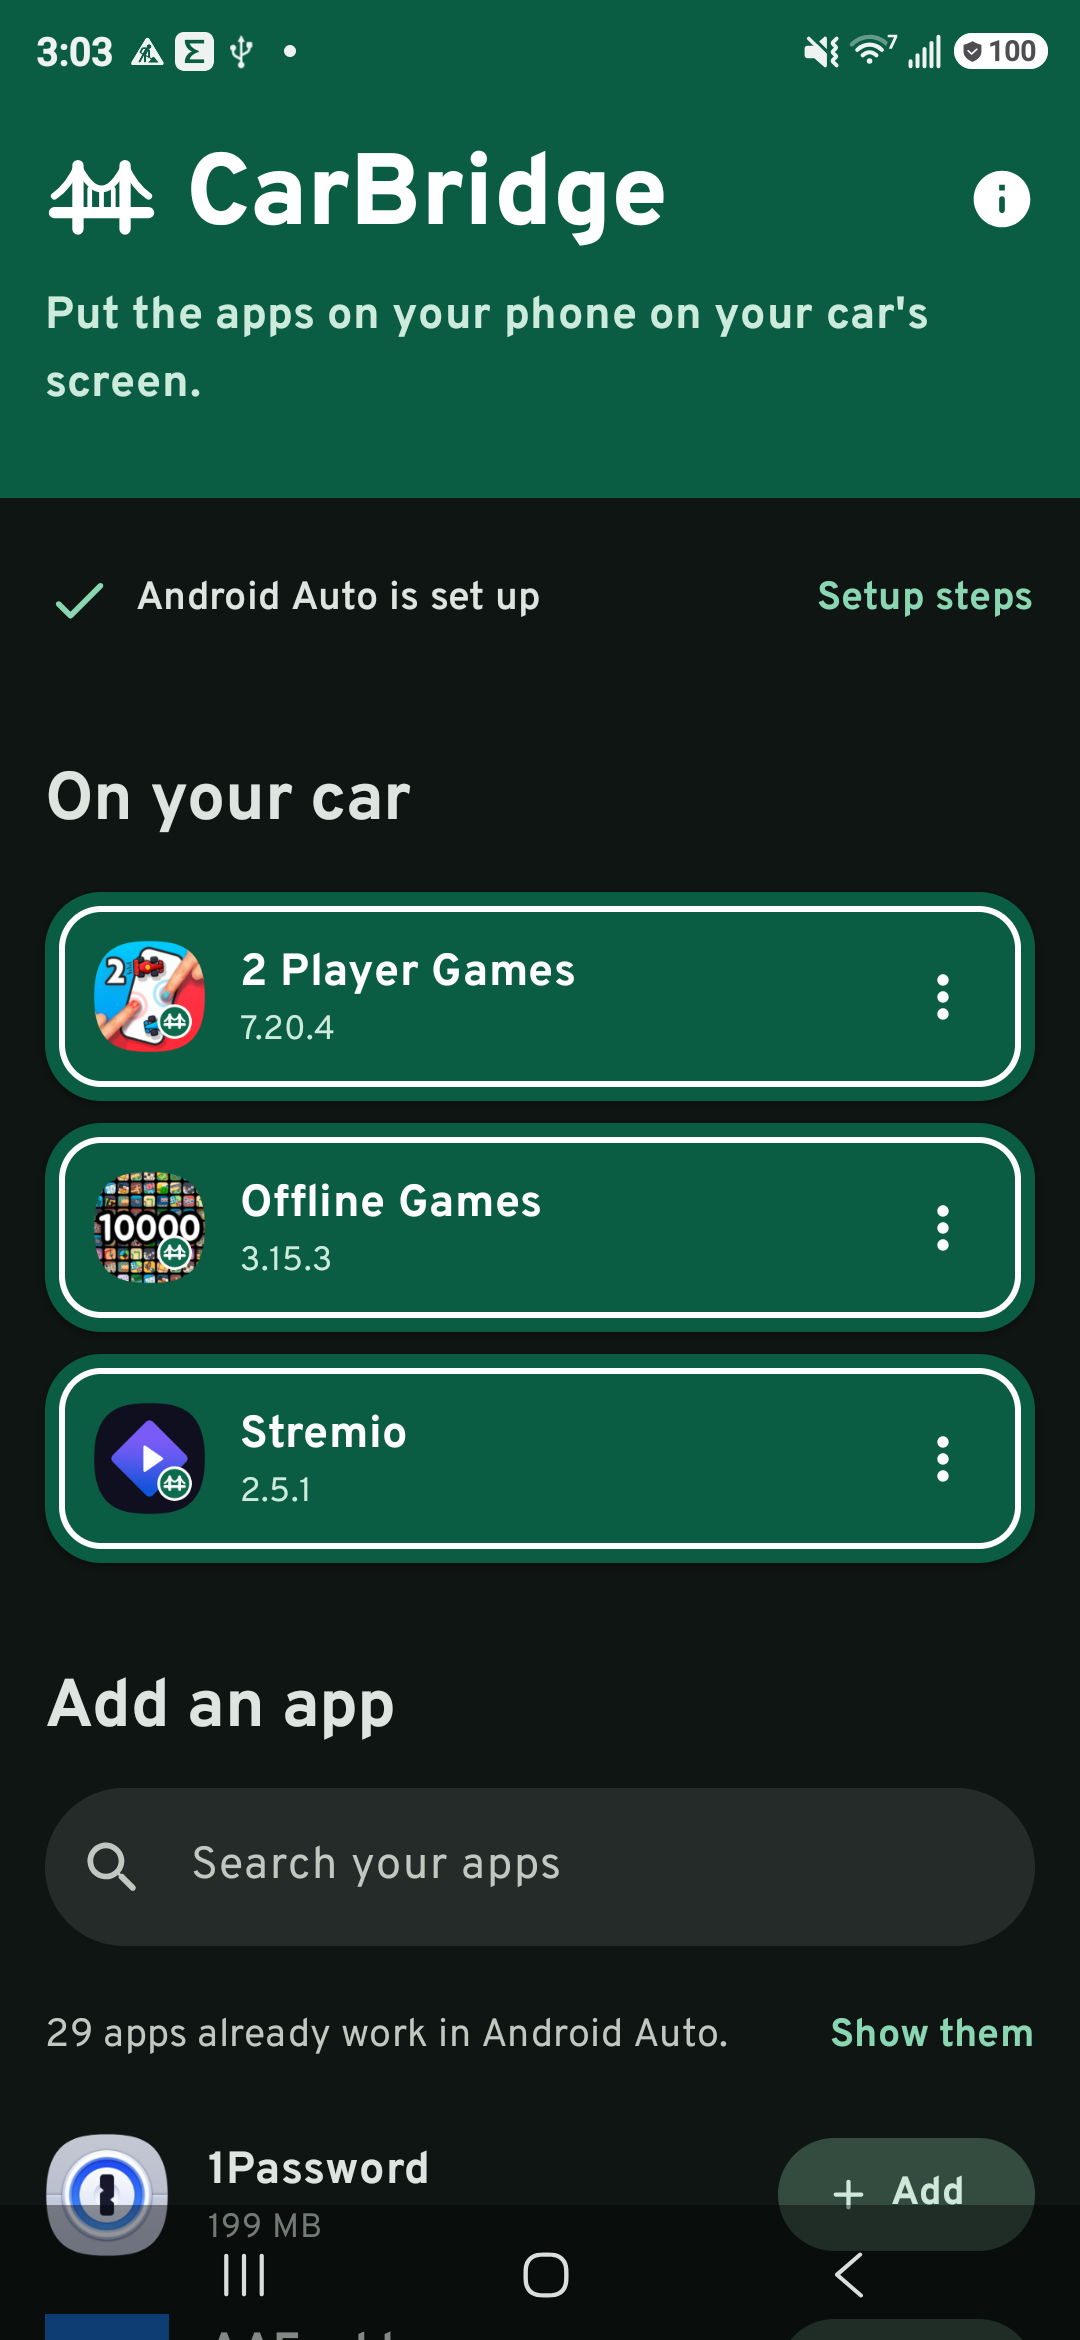
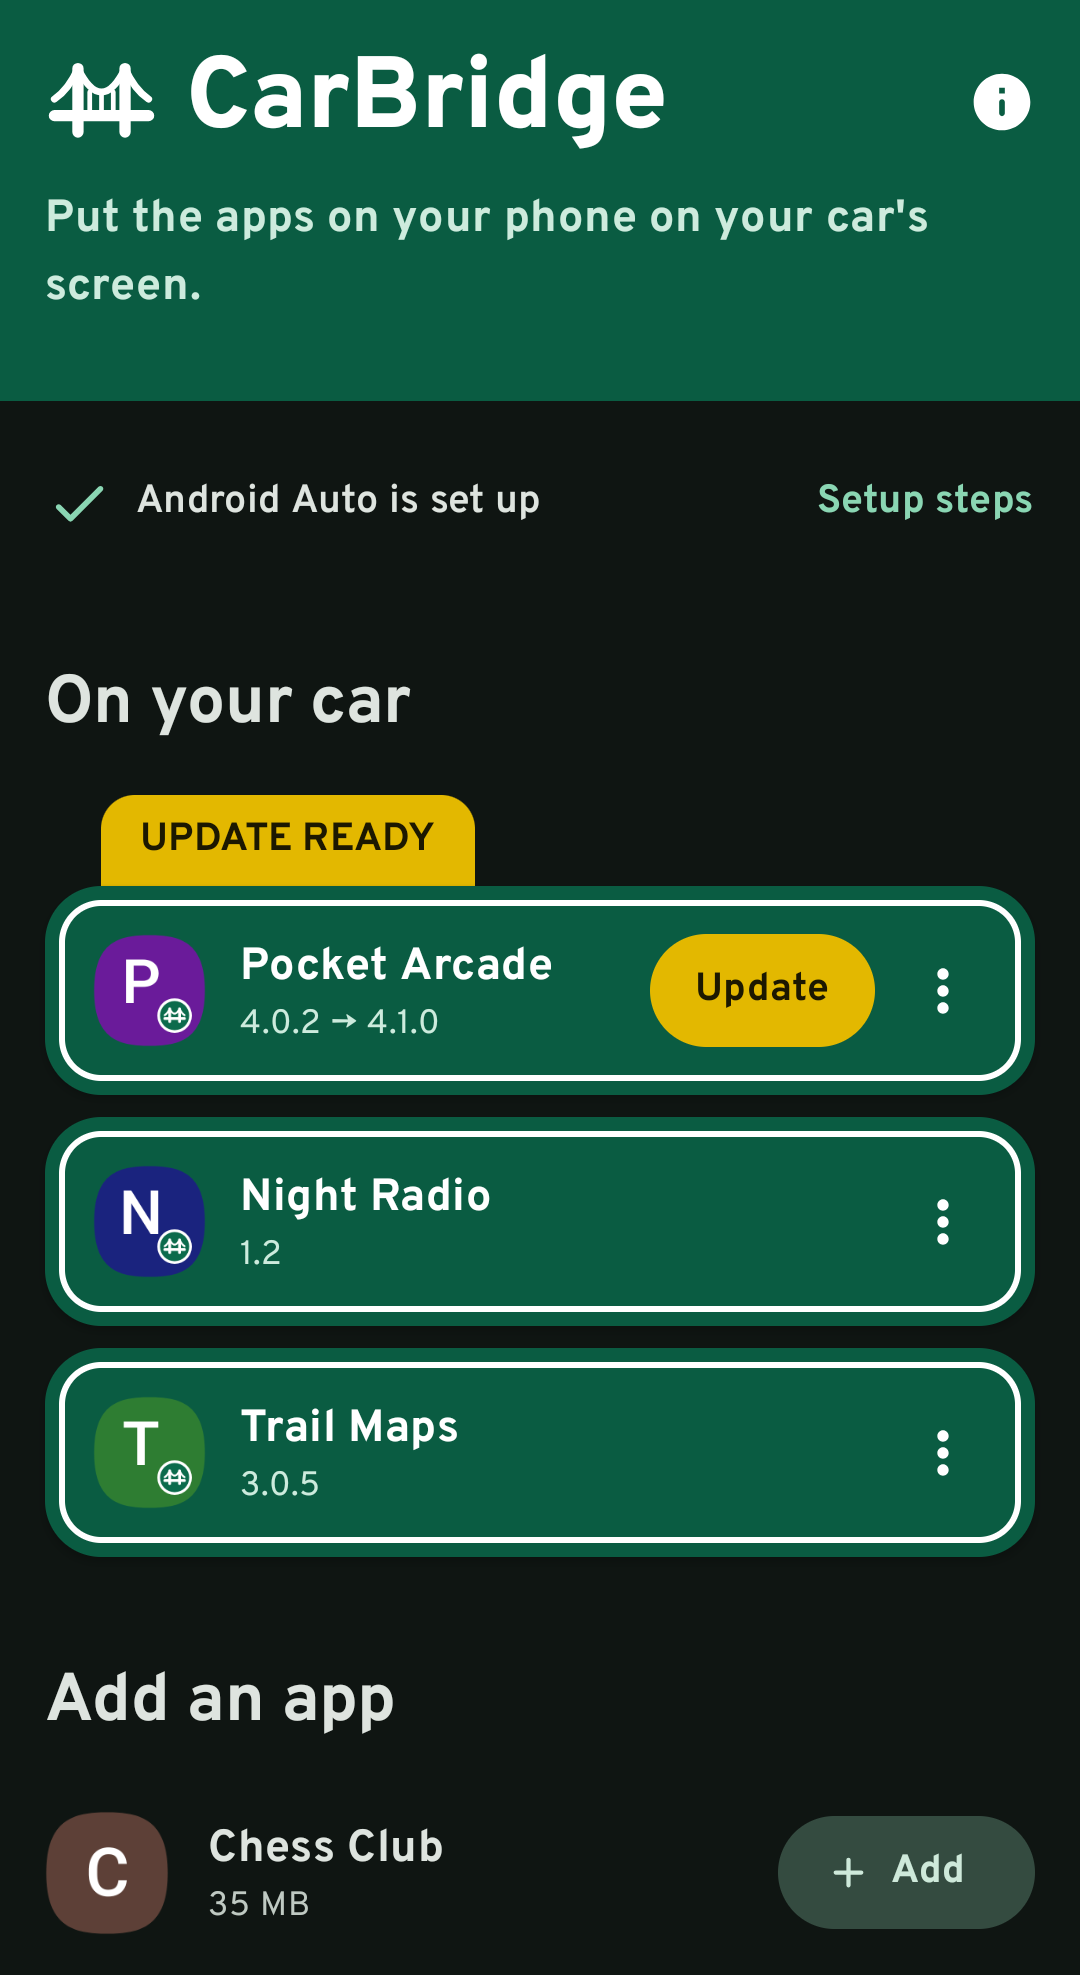
docs: use sample apps for the store screenshot
A debug-only screen renders the home screen with made-up apps, so the
listing doesn't show anyone's installed apps or status bar. Debug builds
get an .debug app ID to install next to the release build.

diff --git a/patcher/src/debug/java/org/carbridge/ScreenshotActivity.kt b/patcher/src/debug/java/org/carbridge/ScreenshotActivity.kt
@@ -1,0 +1,103 @@
+package org.carbridge
+
+import android.content.pm.ApplicationInfo
+import android.graphics.Bitmap
+import android.graphics.Canvas
+import android.graphics.Color
+import android.graphics.Paint
+import android.graphics.Typeface
+import android.graphics.drawable.AdaptiveIconDrawable
+import android.graphics.drawable.BitmapDrawable
+import android.graphics.drawable.ColorDrawable
+import android.graphics.drawable.Drawable
+import android.os.Bundle
+import androidx.activity.ComponentActivity
+import androidx.activity.SystemBarStyle
+import androidx.activity.compose.setContent
+import androidx.activity.enableEdgeToEdge
+import androidx.compose.ui.graphics.ImageBitmap
+import androidx.compose.ui.graphics.asImageBitmap
+import androidx.lifecycle.ViewModelProvider
+import org.carbridge.patch.IconBadger
+import org.carbridge.ui.CarBridgeTheme
+import org.carbridge.ui.HomeActions
+import org.carbridge.ui.HomeScreen
+
+/** Shows the home screen with made-up apps, so store screenshots don't expose anyone's phone. */
+class ScreenshotActivity : ComponentActivity() {
+    override fun onCreate(savedInstanceState: Bundle?) {
+        enableEdgeToEdge(statusBarStyle = SystemBarStyle.dark(Color.TRANSPARENT))
+        super.onCreate(savedInstanceState)
+        val model = ViewModelProvider(this)[HomeModel::class.java]
+        model.showSample(sampleCatalog())
+        val none = HomeActions({}, {}, {}, {}, {}, {}, {}, {}, { _, _ -> }, {})
+        setContent { CarBridgeTheme { HomeScreen(model, none) } }
+    }
+
+    private fun sampleCatalog(): Catalog {
+        val trail = source("Trail Maps", "T", 0xFF2E7D32, 48)
+        val arcade = source("Pocket Arcade", "P", 0xFF6A1B9A, 61)
+        val radio = source("Night Radio", "N", 0xFF1A237E, 23)
+        val copies = listOf(
+            copy(arcade, "P", 0xFF6A1B9A, Version(40, "4.0.2"), Version(41, "4.1.0"), portrait = true),
+            copy(radio, "N", 0xFF1A237E, Version(12, "1.2"), Version(12, "1.2")),
+            copy(trail, "T", 0xFF2E7D32, Version(305, "3.0.5"), Version(305, "3.0.5")),
+        )
+        val available = listOf(
+            source("Chess Club", "C", 0xFF5D4037, 35),
+            source("Recipe Box", "R", 0xFFE65100, 19),
+            source("Sky Watch", "S", 0xFF0277BD, 27),
+            source("Word Garden", "W", 0xFF00796B, 14),
+            source("Zen Puzzles", "Z", 0xFFAD1457, 52),
+        )
+        return Catalog(copies, available)
+    }
+
+    private fun source(label: String, letter: String, color: Long, mb: Long) = SourceApp(
+        label = label,
+        info = ApplicationInfo().apply { packageName = "sample." + label.lowercase().replace(' ', '.') },
+        icon = icon(letter, color, badged = false),
+        sizeBytes = mb * 1_000_000,
+        hasAndroidAuto = false,
+        caution = null,
+    )
+
+    private fun copy(original: SourceApp, letter: String, color: Long, version: Version, originalVersion: Version, portrait: Boolean = false) =
+        CarCopy(
+            label = original.label,
+            packageName = original.info.packageName + ".car",
+            icon = icon(letter, color, badged = true),
+            original = original,
+            version = version,
+            originalVersion = originalVersion,
+            portraitLocked = portrait,
+            fillsScreen = true,
+        )
+
+    private fun icon(letter: String, color: Long, badged: Boolean): ImageBitmap {
+        val layer = Bitmap.createBitmap(LAYER, LAYER, Bitmap.Config.ARGB_8888)
+        Canvas(layer).apply {
+            drawColor(color.toInt())
+            val paint = Paint(Paint.ANTI_ALIAS_FLAG).apply {
+                this.color = Color.WHITE
+                textSize = LAYER * 0.36f
+                typeface = Typeface.create(Typeface.DEFAULT, Typeface.BOLD)
+                textAlign = Paint.Align.CENTER
+            }
+            // Badged icons nudge the letter up-left so the badge doesn't cover it
+            val center = if (badged) LAYER * 0.45f else LAYER / 2f
+            drawText(letter, center, center - (paint.ascent() + paint.descent()) / 2, paint)
+        }
+        val foreground: Drawable = if (badged) BitmapDrawable(resources, IconBadger.badge()) else ColorDrawable(Color.TRANSPARENT)
+        val drawable = AdaptiveIconDrawable(BitmapDrawable(resources, layer), foreground)
+        val out = Bitmap.createBitmap(ICON_PX, ICON_PX, Bitmap.Config.ARGB_8888)
+        drawable.setBounds(0, 0, ICON_PX, ICON_PX)
+        drawable.draw(Canvas(out))
+        return out.asImageBitmap()
+    }
+
+    private companion object {
+        const val LAYER = 432
+        const val ICON_PX = 144
+    }
+}

diff --git a/patcher/src/main/java/org/carbridge/HomeModel.kt b/patcher/src/main/java/org/carbridge/HomeModel.kt
@@ -100,7 +100,16 @@ class HomeModel(app: Application) : AndroidViewModel(app) {
         next?.let { add(it, update = true) }
     }
 
+    /** Fixed sample data for store screenshots; never set in normal use. */
+    private var sample: Catalog? = null
+
+    fun showSample(catalog: Catalog) {
+        sample = catalog
+        refresh()
+    }
+
     fun refresh() {
+        sample?.let { setup = Setup(canInstall = true, developerMode = true, unknownSources = true); catalog = it; return }
         setup = readSetup()
         viewModelScope.launch {
             catalog = withContext(Dispatchers.IO) { AppCatalog.load(getApplication(), ::fillsScreen) }

diff --git a/patcher/src/main/java/org/carbridge/patch/IconBadger.kt b/patcher/src/main/java/org/carbridge/patch/IconBadger.kt
@@ -42,7 +42,7 @@ object IconBadger {
     }
 
     /** White-ringed green disc with the bridge mark, inside the 66dp safe zone's lower right. */
-    private fun badge(): Bitmap {
+    internal fun badge(): Bitmap {
         val bitmap = Bitmap.createBitmap(SIZE, SIZE, Bitmap.Config.ARGB_8888)
         val canvas = Canvas(bitmap)
         val paint = Paint(Paint.ANTI_ALIAS_FLAG)

diff --git a/README.md b/README.md
@@ -148,7 +148,12 @@ gh secret set CARBRIDGE_STORE_PASSWORD && gh secret set CARBRIDGE_KEY_ALIAS && g
 ```
 
 Store listing text, icon and screenshots for IzzyOnDroid and F-Droid clients are in
-`fastlane/metadata/android/en-US`.
+`fastlane/metadata/android/en-US`. The screenshot uses made-up sample apps from a debug-only
+screen (`patcher/src/debug`); crop the status and navigation bars off the capture:
+
+```bash
+./gradlew :patcher:installDebug && adb shell am start -n org.carbridge.debug/org.carbridge.ScreenshotActivity
+```
 
 **Back up both files somewhere safe.** If the key is lost, CarBridge can't be updated in place.
 Users would have to uninstall it, which also deletes the on-device key it uses for car copies.
